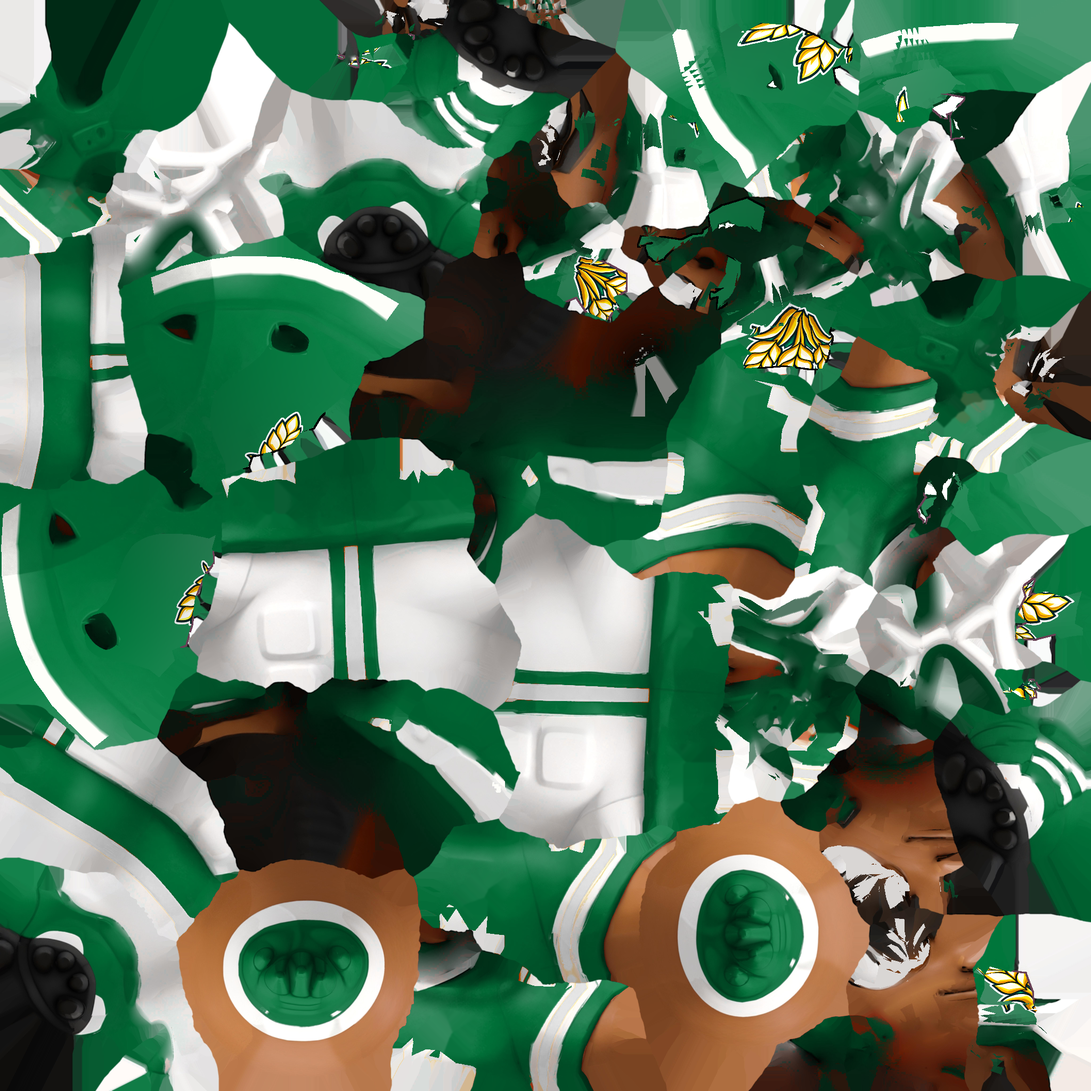
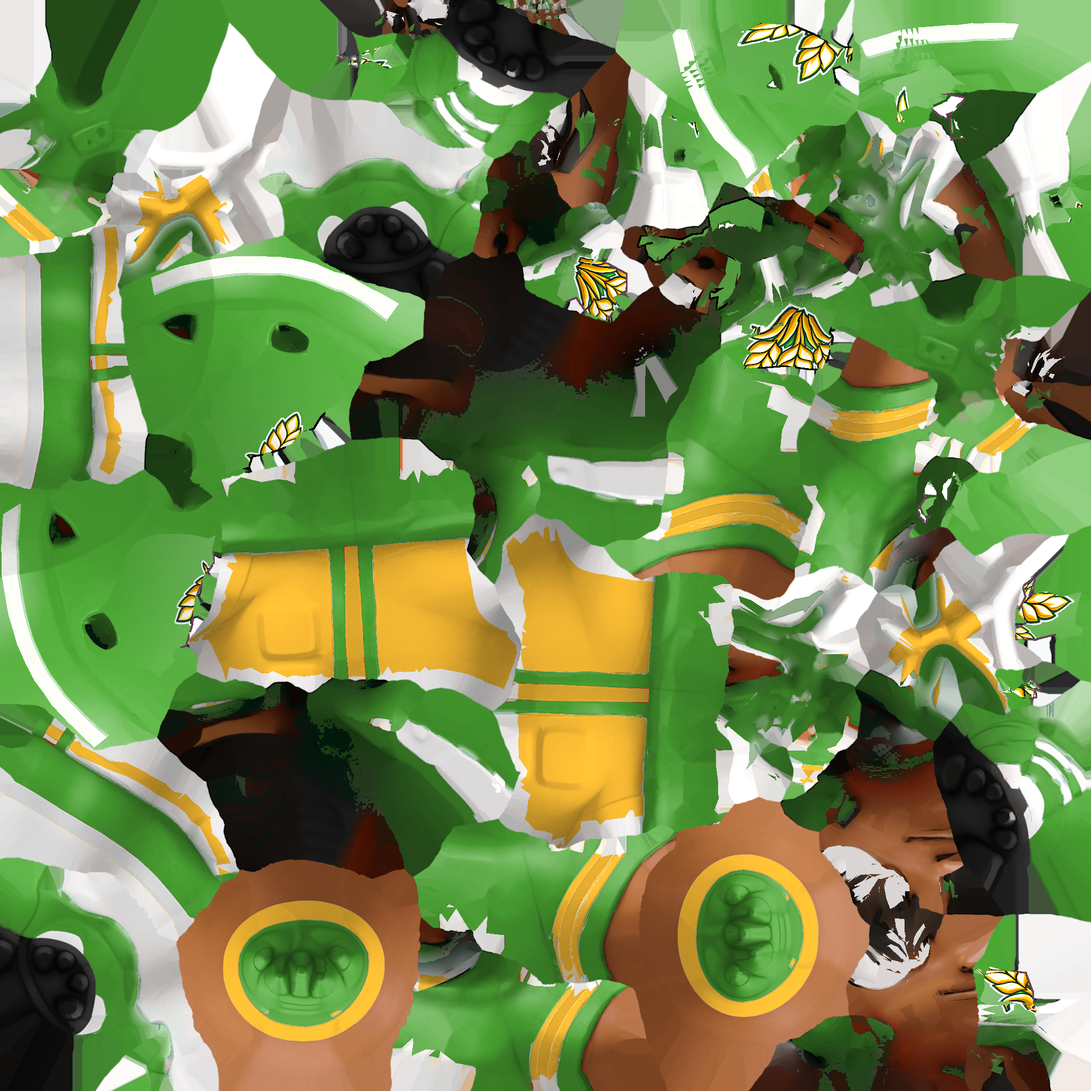
Grains: light green and gold kit
Kenny asked for more gold and a lighter green: the green maps turn light green with
gold pants and trim (tools/rebrand/recolour.py), and game.json's Grains colours follow
(#5cb83a, gold #f2b632). The uvmap helper moves to rebrand_uv.py so both scripts share it.

Claude-Session: https://claude.ai/code/session_0112Bkhzjxr6wrjhv7MTovQW

diff --git a/tools/rebrand/recolour.py b/tools/rebrand/recolour.py
@@ -1,0 +1,28 @@
+# The Grains' kit, lighter and with gold: on each colour map listed, the team green turns light green (hue shifted
+# toward yellow, brighter) and the white cloth below the head turns gold (pants, sleeve and pant stripes; the
+# facemask, the helmet emblem, socks and shoes keep their colours). In place, so run it once on the green maps.
+# usage: python3 recolour.py recolour.json <Resources dir>
+import sys, os, json, numpy as np
+from PIL import Image
+sys.path.insert(0, os.path.dirname(os.path.abspath(__file__)))
+from rebrand_uv import uvmap
+
+spec = json.load(open(sys.argv[1])); root = sys.argv[2]
+g = spec['green']; gold = np.array([int(spec['gold'][i:i + 2], 16) for i in (1, 3, 5)], np.float32) / 255
+for m in spec['models']:
+    imgs = [(f, Image.open(os.path.join(root, f)).convert('RGB')) for f in m['textures']]
+    pos, _ = uvmap(os.path.join(root, m['fbx']), imgs[0][1].size[0])
+    z = np.nan_to_num(pos[..., 2], nan=-1)
+    for f, img in imgs:
+        hsv = np.asarray(img.convert('HSV')).astype(np.float32)
+        h, s, v = hsv[..., 0] * 360 / 256, hsv[..., 1] / 255, hsv[..., 2] / 255
+        green = (np.abs(((h - g['hue']) + 180) % 360 - 180) < g['tol']) & (s > 0.25) & (v > 0.1)
+        h2 = np.where(green, (h + g['shift']) % 360, h)
+        s2 = np.where(green, s * g['sat'], s)
+        v2 = np.where(green, np.minimum(1, v * g['gain'] + g['lift']), v)
+        out = np.asarray(Image.fromarray(np.stack([h2 / 360 * 256, s2 * 255, v2 * 255], -1).clip(0, 255).astype(np.uint8), 'HSV').convert('RGB')).astype(np.float32) / 255
+        lo, hi = m['goldZ']
+        white = (s < 0.22) & (v > 0.55) & (z >= lo) & (z <= hi)
+        out[white] = np.clip(gold * (v[white] / 0.92)[:, None], 0, 1)
+        Image.fromarray((out * 255 + 0.5).astype(np.uint8)).save(os.path.join(root, f), optimize=True)
+        print(f, 'green', int(green.sum()), 'gold', int(white.sum()))

diff --git a/tools/rebrand/rebrand.py b/tools/rebrand/rebrand.py
@@ -12,7 +12,7 @@
 import sys, os, json, numpy as np
 from PIL import Image, ImageDraw
 sys.path.insert(0, os.path.dirname(os.path.abspath(__file__)))
-import fbxuv
+from rebrand_uv import uvmap
 
 spec_path, root = sys.argv[1], sys.argv[2]
 preview = sys.argv[3] if len(sys.argv) > 3 else None
@@ -23,30 +23,6 @@ CELL = 0.004   # the decal mask's grid (m)
 def hsv(rgb):
     hsv = np.asarray(Image.fromarray(rgb).convert('HSV')).astype(np.float32)
     return hsv[..., 0] * 360 / 256, hsv[..., 1] / 255, hsv[..., 2] / 255
-
-
-def uvmap(fbx, N):
-    co, verts, uvs, tris = fbxuv.mesh(fbx)
-    pos = np.full((N, N, 3), np.nan, np.float32); nrm = np.zeros((N, N, 3), np.float32)
-    for tri in tris:
-        P = co[verts[tri]]; n = np.cross(P[1] - P[0], P[2] - P[0]); nn = np.linalg.norm(n)
-        if nn == 0: continue
-        n /= nn; uv = uvs[tri]
-        x = uv[:, 0] * N; y = (1 - uv[:, 1]) * N
-        x0, x1 = max(int(np.floor(x.min())) - 1, 0), min(int(np.ceil(x.max())) + 1, N - 1)
-        y0, y1 = max(int(np.floor(y.min())) - 1, 0), min(int(np.ceil(y.max())) + 1, N - 1)
-        if x1 < x0 or y1 < y0: continue
-        gx, gy = np.meshgrid(np.arange(x0, x1 + 1) + 0.5, np.arange(y0, y1 + 1) + 0.5)
-        d = (y[1] - y[2]) * (x[0] - x[2]) + (x[2] - x[1]) * (y[0] - y[2])
-        if abs(d) < 1e-12: continue
-        w0 = ((y[1] - y[2]) * (gx - x[2]) + (x[2] - x[1]) * (gy - y[2])) / d
-        w1 = ((y[2] - y[0]) * (gx - x[2]) + (x[0] - x[2]) * (gy - y[2])) / d
-        w2 = 1 - w0 - w1; e = -1.0 / max(abs(d) ** 0.5, 1)
-        m = (w0 >= e) & (w1 >= e) & (w2 >= e)
-        if not m.any(): continue
-        p = w0[..., None] * P[0] + w1[..., None] * P[1] + w2[..., None] * P[2]
-        pos[y0:y1 + 1, x0:x1 + 1][m] = p[m]; nrm[y0:y1 + 1, x0:x1 + 1][m] = n
-    return pos, nrm
 
 
 def dilate(m, k):

diff --git a/tools/rebrand/rebrand_uv.py b/tools/rebrand/rebrand_uv.py
@@ -1,0 +1,27 @@
+# The rest-pose point and normal under every texel of a model's colour map (shared by rebrand.py and recolour.py).
+import numpy as np
+import fbxuv
+
+
+def uvmap(fbx, N):
+    co, verts, uvs, tris = fbxuv.mesh(fbx)
+    pos = np.full((N, N, 3), np.nan, np.float32); nrm = np.zeros((N, N, 3), np.float32)
+    for tri in tris:
+        P = co[verts[tri]]; n = np.cross(P[1] - P[0], P[2] - P[0]); nn = np.linalg.norm(n)
+        if nn == 0: continue
+        n /= nn; uv = uvs[tri]
+        x = uv[:, 0] * N; y = (1 - uv[:, 1]) * N
+        x0, x1 = max(int(np.floor(x.min())) - 1, 0), min(int(np.ceil(x.max())) + 1, N - 1)
+        y0, y1 = max(int(np.floor(y.min())) - 1, 0), min(int(np.ceil(y.max())) + 1, N - 1)
+        if x1 < x0 or y1 < y0: continue
+        gx, gy = np.meshgrid(np.arange(x0, x1 + 1) + 0.5, np.arange(y0, y1 + 1) + 0.5)
+        d = (y[1] - y[2]) * (x[0] - x[2]) + (x[2] - x[1]) * (y[0] - y[2])
+        if abs(d) < 1e-12: continue
+        w0 = ((y[1] - y[2]) * (gx - x[2]) + (x[2] - x[1]) * (gy - y[2])) / d
+        w1 = ((y[2] - y[0]) * (gx - x[2]) + (x[0] - x[2]) * (gy - y[2])) / d
+        w2 = 1 - w0 - w1; e = -1.0 / max(abs(d) ** 0.5, 1)
+        m = (w0 >= e) & (w1 >= e) & (w2 >= e)
+        if not m.any(): continue
+        p = w0[..., None] * P[0] + w1[..., None] * P[1] + w2[..., None] * P[2]
+        pos[y0:y1 + 1, x0:x1 + 1][m] = p[m]; nrm[y0:y1 + 1, x0:x1 + 1][m] = n
+    return pos, nrm

diff --git a/tools/rebrand/README.md b/tools/rebrand/README.md
@@ -16,3 +16,7 @@ Numpy and Pillow only, no Blender.
   decal search skips (a stripe touching the decal), `hueTol`, `minWhite`, `join`, `edge`, `pad`, `scale`, `du`/`dv`.
 
 A new team: put its emblem through `emblems.py`, then add its colour maps to `rebrand.json` with its own `emblem` key.
+
+`recolour.py recolour.json Assets/_Project/Resources`: the Grains' lighter kit. The team green turns light green and
+the white cloth between `goldZ` heights (pants, sleeve and pant stripes, cheer trim) turns gold. Run it once, after
+`rebrand.py`, on the green maps (it edits them in place).
